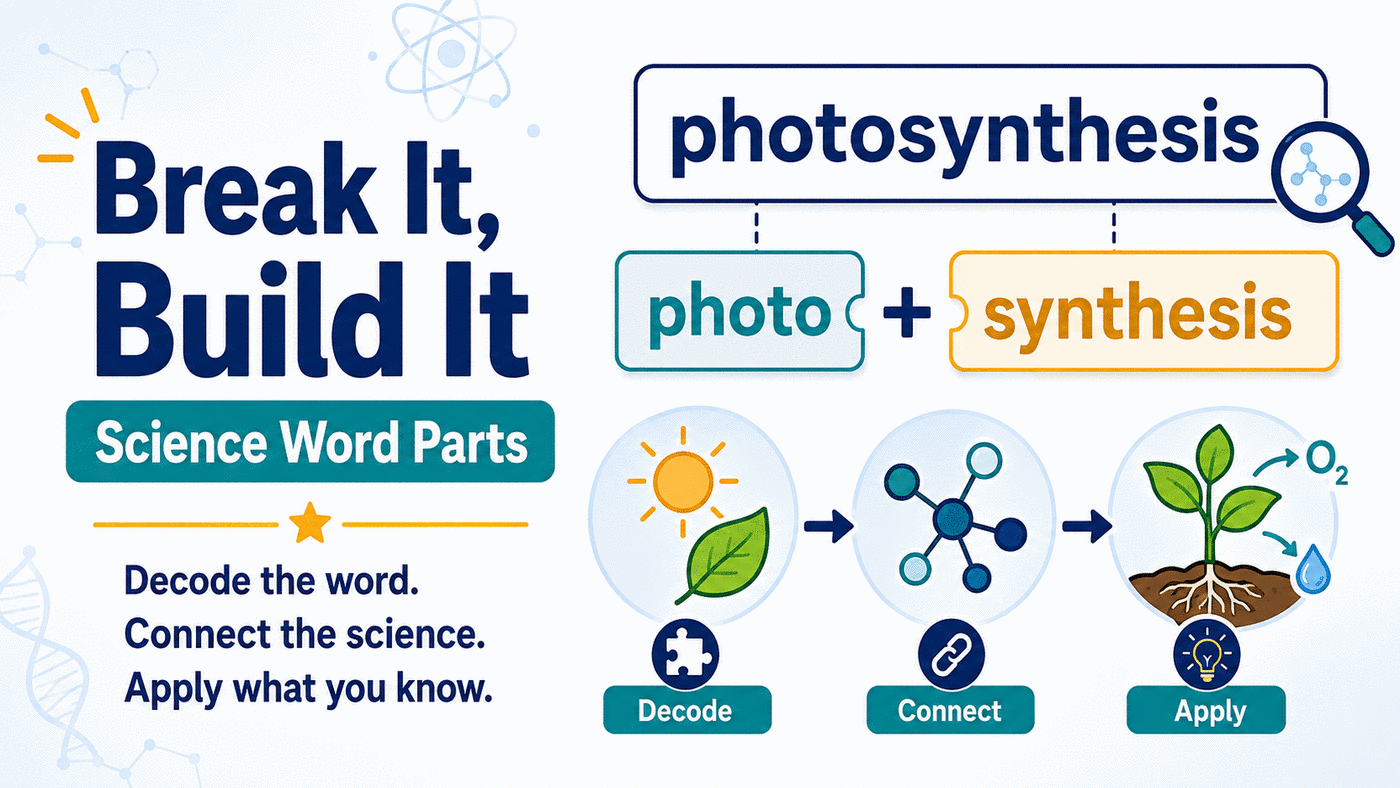
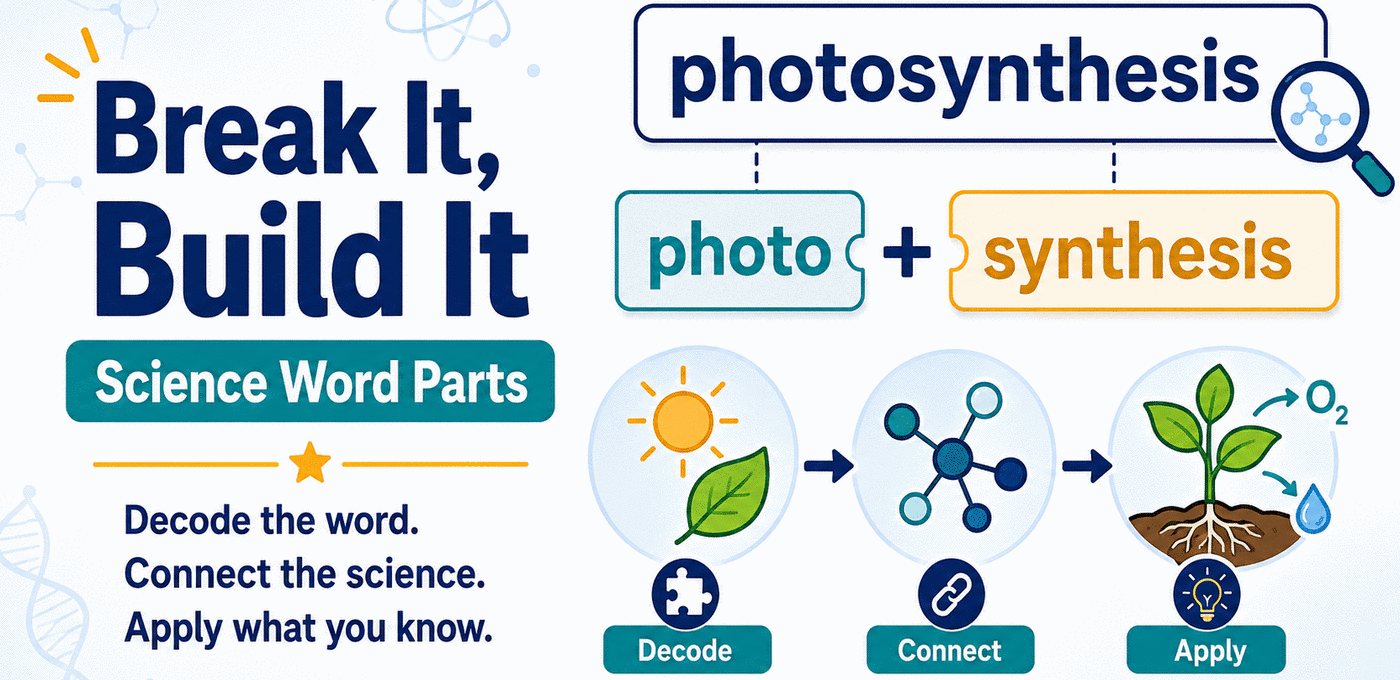
Rebuild the Break It, Build It hero on the hub's pattern
Banner across the top, then a centred sentence, then a centred stat row —
the same arrangement as the Learning Activities Hub landing page.

The banner is cropped first. About 17% of the artwork's height was empty
margin (content ran y=100–880 of 941), so trimming it takes the file from
16:9 to roughly 2:1 and loses nothing but whitespace.

It is capped at 860px rather than run edge to edge, which is the one place
this departs from the hub. The hub's banner is a 3:1 letterbox and lands near
360px tall; this artwork is 2:1, so full bleed would put it around 545px on a
laptop — taller than the version that was already too big. At 860px it is
about 418px, close to the hub's proportions.

The stat row now carries the three numbers that were in a "What is in here
right now" section further down, so that section is gone rather than
repeating them. Its three explanatory sentences went with it; say the word if
you want them back as a panel elsewhere.

diff --git a/sst/sciencewords/index.html b/sst/sciencewords/index.html
@@ -33,19 +33,23 @@
 <main id="main">
 
   <div class="hero">
-    <div class="wrap hero-grid">
-      <h1 class="sr-only">Break It, Build It — Science Word Parts</h1>
-      <div class="hero-art">
-        <img src="assets/breakitbuildit-hero.png" width="1400" height="788"
+    <div class="wrap top">
+      <div class="herowrap">
+        <img class="heroimg" src="assets/breakitbuildit-hero.png" width="1400" height="680"
              alt="Break It, Build It: Science Word Parts. Decode the word. Connect the science. Apply what you know. The word photosynthesis splits into the parts photo and synthesis, above three steps — Decode, shown as sunlight on a leaf; Connect, shown as linked molecules; and Apply, shown as a growing plant releasing oxygen and taking up water.">
       </div>
-      <div class="hero-copy">
-      <p class="lede">Printable science word-part activities, complete for grades 3–5 with 6–8 and 9–12 planned. Students use Greek and Latin prefixes, roots, and suffixes to make a prediction about an unfamiliar science term — then test that prediction against a diagram, a passage, or data, and revise it when the science says otherwise.</p>
+      <h1 class="sr-only">Break It, Build It — Science Word Parts</h1>
+      <p class="sub">Printable science word-part activities, complete for grades 3–5 with 6–8 and 9–12 planned. Students use Greek and Latin prefixes, roots, and suffixes to predict what an unfamiliar science term means — then test that prediction against a diagram, a passage, or data, and revise it when the science says otherwise.</p>
+      <div class="tally">
+        <div><div class="n" id="stat-morphemes">—</div><div class="l">Word parts</div></div>
+        <div><div class="n" id="stat-terms">—</div><div class="l">Science terms</div></div>
+        <div><div class="n" id="stat-activities">—</div><div class="l">Activities</div></div>
+        <div><div class="n">3–5</div><div class="l">Grade band</div></div>
+      </div>
       <div class="btnrow">
         <a class="btn" href="activities.html">Browse activities</a>
         <a class="btn alt" href="word-parts.html">Explore word parts</a>
         <a class="btn alt" href="teacher-guide.html">Teacher guide</a>
-      </div>
       </div>
     </div>
   </div>
@@ -125,16 +129,6 @@
     </div>
   </section>
 
-  <section aria-labelledby="h-stats">
-    <div class="wrap">
-      <h2 class="sec" id="h-stats">What is in here right now</h2>
-      <div class="grid cols-3">
-        <div class="panel"><h3><span id="stat-morphemes">—</span> word parts</h3><p>Each one checked for accuracy, classroom usefulness, and grade-band fit. Cautions are recorded where a part is not a reliable clue.</p></div>
-        <div class="panel"><h3><span id="stat-terms">—</span> science terms</h3><p>Each term carries a word-part clue and a separate science meaning. The two are never treated as the same thing.</p></div>
-        <div class="panel"><h3><span id="stat-activities">—</span> activities</h3><p>Every one printable in colour and in a black-and-white edition designed for a grayscale copier, each with a teacher key.</p></div>
-      </div>
-    </div>
-  </section>
 
 </main>
 

diff --git a/sst/sciencewords/css/styles.css b/sst/sciencewords/css/styles.css
@@ -73,26 +73,23 @@ a:focus-visible, button:focus-visible, select:focus-visible, input:focus-visible
 .sitebar nav a:hover { background: rgba(255,255,255,0.14); border-color: var(--gold); }
 .sitebar nav a[aria-current="page"] { background: var(--gold); color: #26200a; border-color: var(--gold); }
 
-/* ---------- hero ---------- */
-.hero { background: linear-gradient(180deg, #f7fafd, var(--white)); border-bottom: 1px solid var(--line); padding: 44px 0 40px; }
-.hero h1 { font-size: clamp(2.1rem, 5vw, 3.4rem); line-height: 1.02; letter-spacing: -0.03em; margin: 0 0 6px; color: var(--navy); }
-.hero .sub { font-size: clamp(1.1rem, 2.4vw, 1.5rem); font-weight: 700; color: var(--teal-dark); margin: 0 0 14px; }
-.hero .tagline { font-weight: 700; color: var(--ink); margin: 0 0 12px; }
-.hero p.lede { max-width: 62ch; color: var(--ink-soft); margin: 0 0 20px; }
-/* The banner carries the title, so it leads on narrow screens and moves
-   beside the copy once there is room — which halves how much vertical space
-   the hero eats before the buttons. */
-.hero-grid { display: grid; gap: 22px; align-items: center; }
-.hero-art { max-width: 560px; margin: 0; border: 2px solid var(--line); border-radius: 18px;
-  overflow: hidden; background: #fff; box-shadow: var(--shadow); }
-.hero-art img { display: block; width: 100%; height: auto; }
-.hero-copy { min-width: 0; }
-@media (min-width: 900px) {
-  .hero-grid { grid-template-columns: minmax(0, 1fr) minmax(0, 1.05fr); gap: 32px; }
-  .hero-grid .hero-copy { order: 1; }
-  .hero-grid .hero-art { order: 2; max-width: 100%; }
-  .hero p.lede { margin-bottom: 22px; }
+/* ---------- hero ----------
+   Same shape as the Learning Activities Hub: banner across the top, then a
+   centred sentence and a stat row under it. The banner is capped rather than
+   run edge to edge because this artwork is about 2:1 where the hub's is 3:1,
+   and full bleed would put it near 550px tall on a laptop. */
+.hero { background: linear-gradient(180deg, #f7fafd, var(--white)); border-bottom: 1px solid var(--line); padding: 30px 0 34px; }
+.hero .top { text-align: center; }
+.herowrap {
+  max-width: 860px; margin: 0 auto 4px; border-radius: 16px; overflow: hidden;
+  border: 1px solid var(--line); box-shadow: 0 10px 30px rgba(10, 52, 118, 0.16);
 }
+.heroimg { display: block; width: 100%; height: auto; }
+.hero .sub { color: var(--ink-soft); font-weight: 600; margin: 16px auto 0; max-width: 70ch; }
+.tally { display: flex; justify-content: center; gap: 32px; flex-wrap: wrap; margin-top: 20px; }
+.tally .n { font-weight: 800; font-size: 1.7rem; color: var(--navy); line-height: 1; letter-spacing: -0.02em; }
+.tally .l { font-size: 0.66rem; letter-spacing: 0.1em; text-transform: uppercase; color: var(--ink-soft); font-weight: 800; margin-top: 4px; }
+.hero .btnrow { justify-content: center; margin-top: 24px; }
 
 .btnrow { display: flex; flex-wrap: wrap; gap: 10px; }
 .btn {
